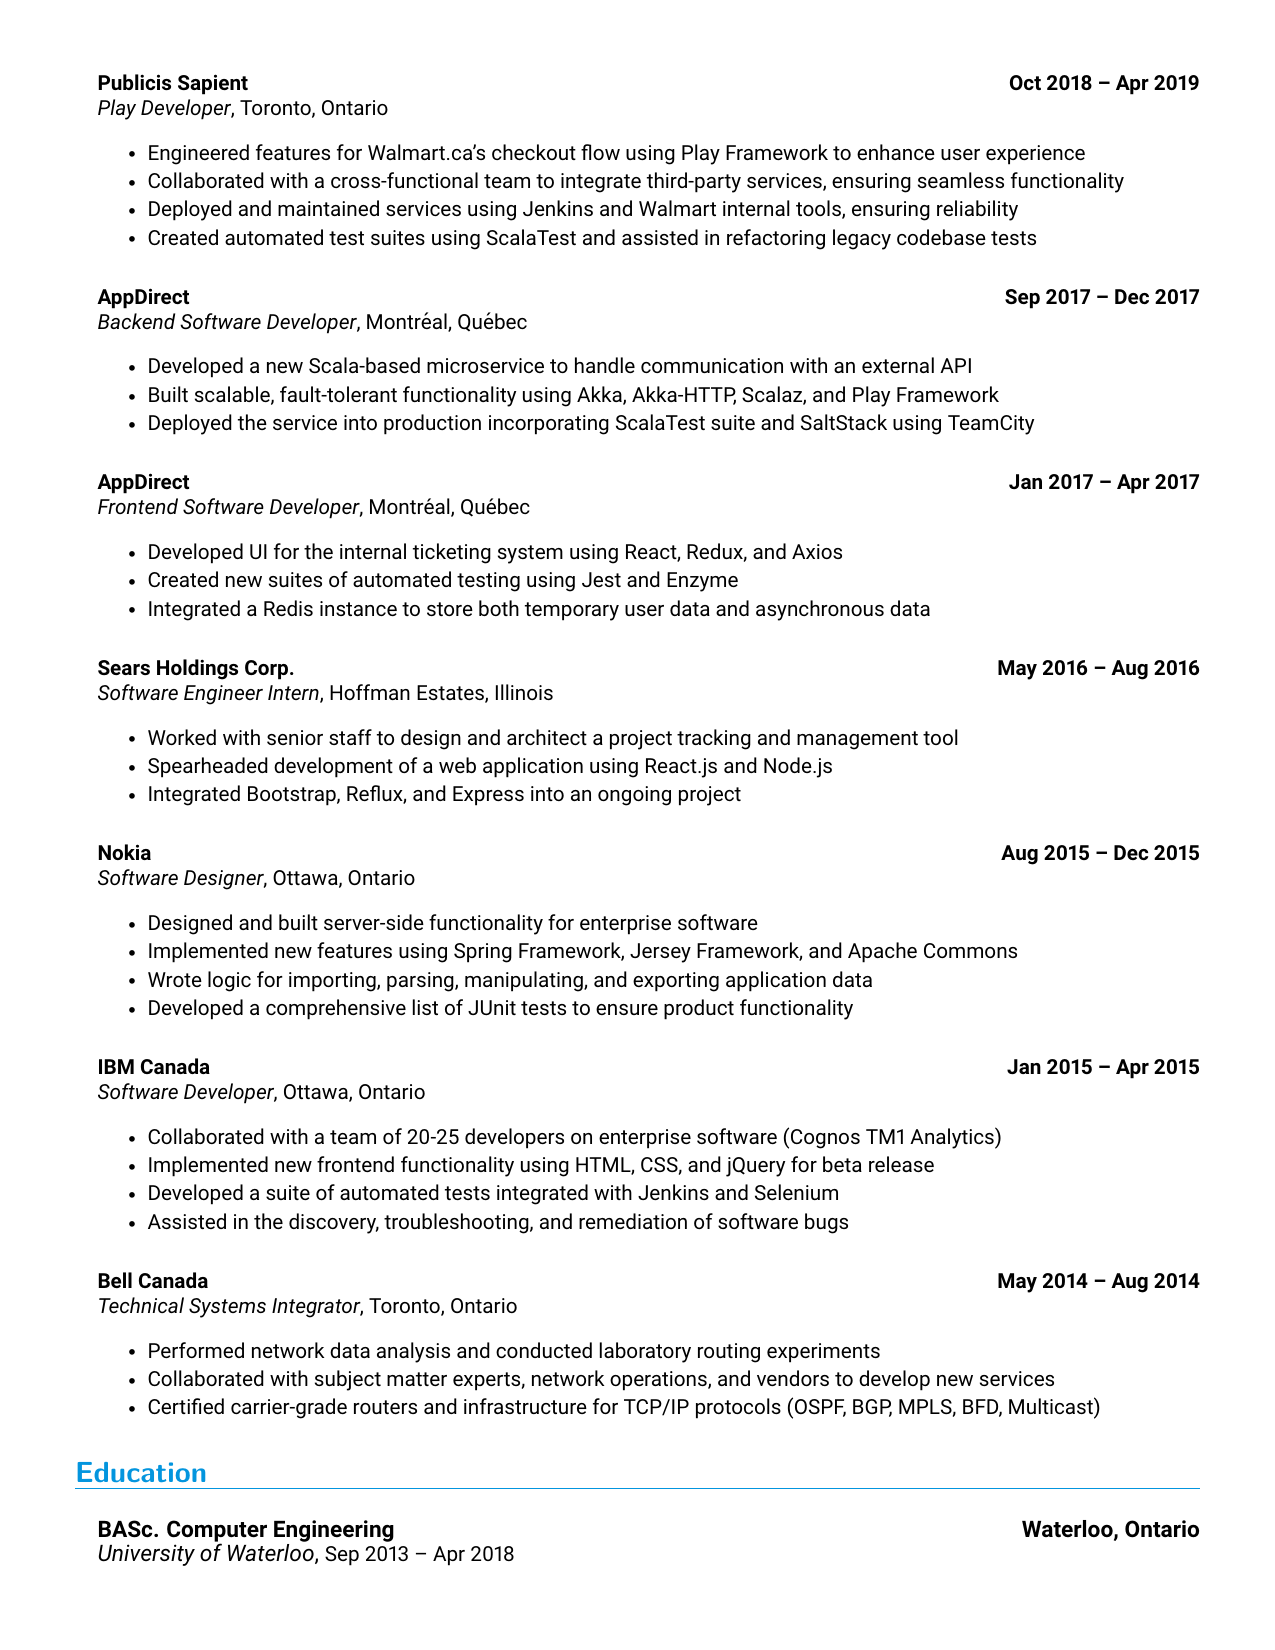
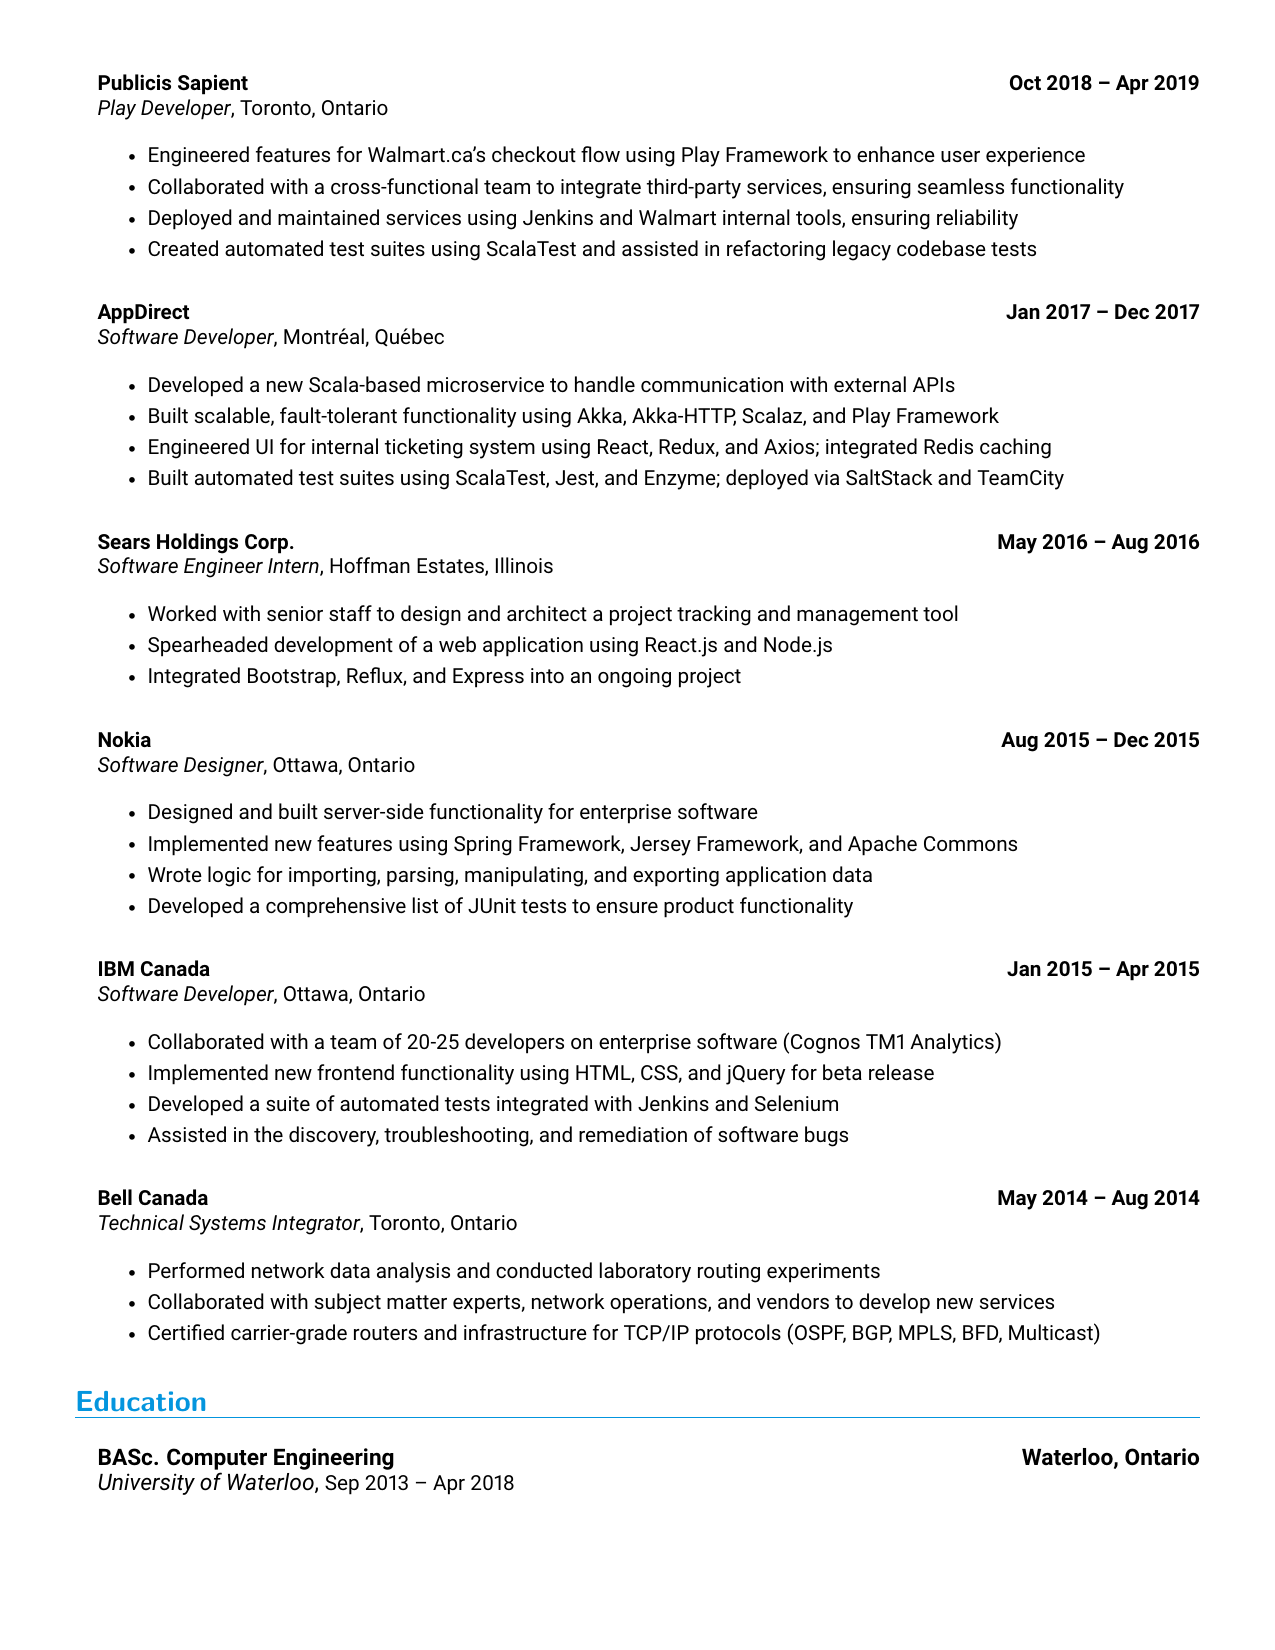
ATS: combine AppDirect co-op terms into single entry (Jan 2017 - Dec 2017) to prevent Workday parsing duplication

diff --git a/experience/appdirect.tex b/experience/appdirect.tex
@@ -1,7 +1,9 @@
 \resumeSubheading
-  {Software Developer}{Jan 2017 -- Apr 2017, Sep 2017 -- Dec 2017}
+  {Software Developer}{Jan 2017 -- Dec 2017}
   {AppDirect}{Montréal, Québec}
   \resumeItemListStart
-    \resumeItem{Designed and implemented a Scala microservice to communicate with external APIs}
+    \resumeItem{Developed a new Scala-based microservice to handle communication with external APIs}
     \resumeItem{Built scalable, fault-tolerant functionality using Akka, Akka-HTTP, Scalaz, and Play Framework}
+    \resumeItem{Engineered UI for internal ticketing system using React, Redux, and Axios; integrated Redis caching}
+    \resumeItem{Built automated test suites using ScalaTest, Jest, and Enzyme; deployed via SaltStack and TeamCity}
   \resumeItemListEnd

diff --git a/ats/ariel_paulin_ats.tex b/ats/ariel_paulin_ats.tex
@@ -133,8 +133,7 @@
     \input{../experience/datapassports.tex}
     \input{../experience/awareads.tex}
     \input{../experience/sapient.tex}
-    \input{../experience/appdirect_term2.tex}
-    \input{../experience/appdirect_term1.tex}
+    \input{../experience/appdirect.tex}
     \input{../experience/sears.tex}
     \input{../experience/nokia.tex}
     \input{../experience/ibm.tex}
